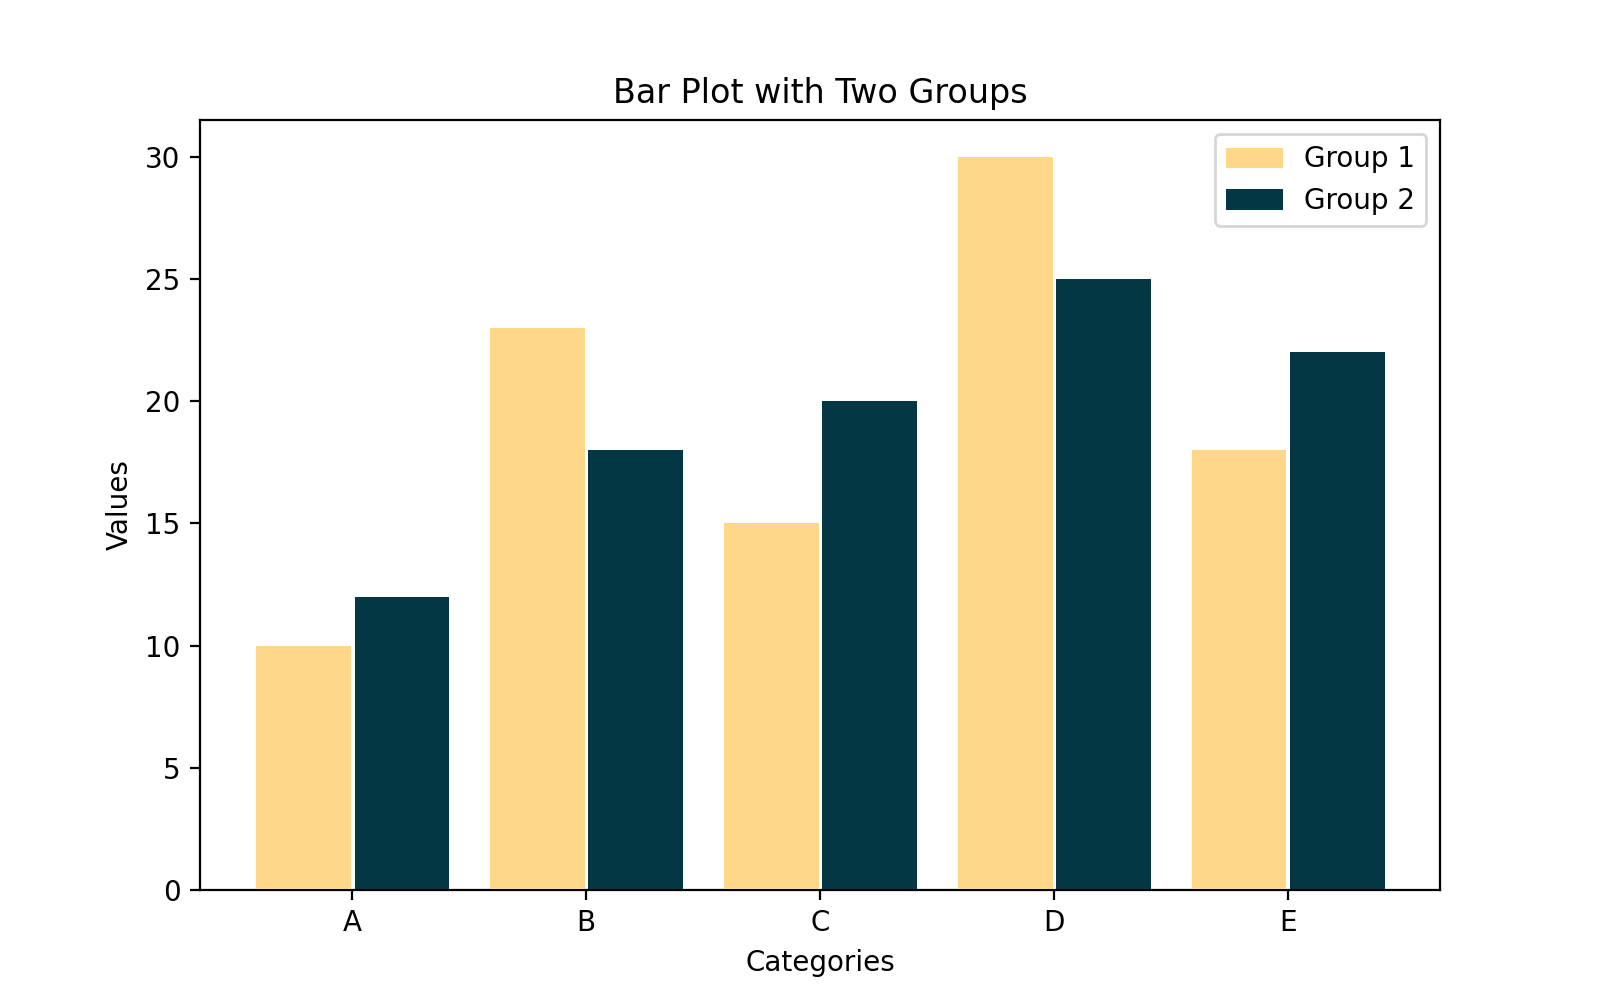
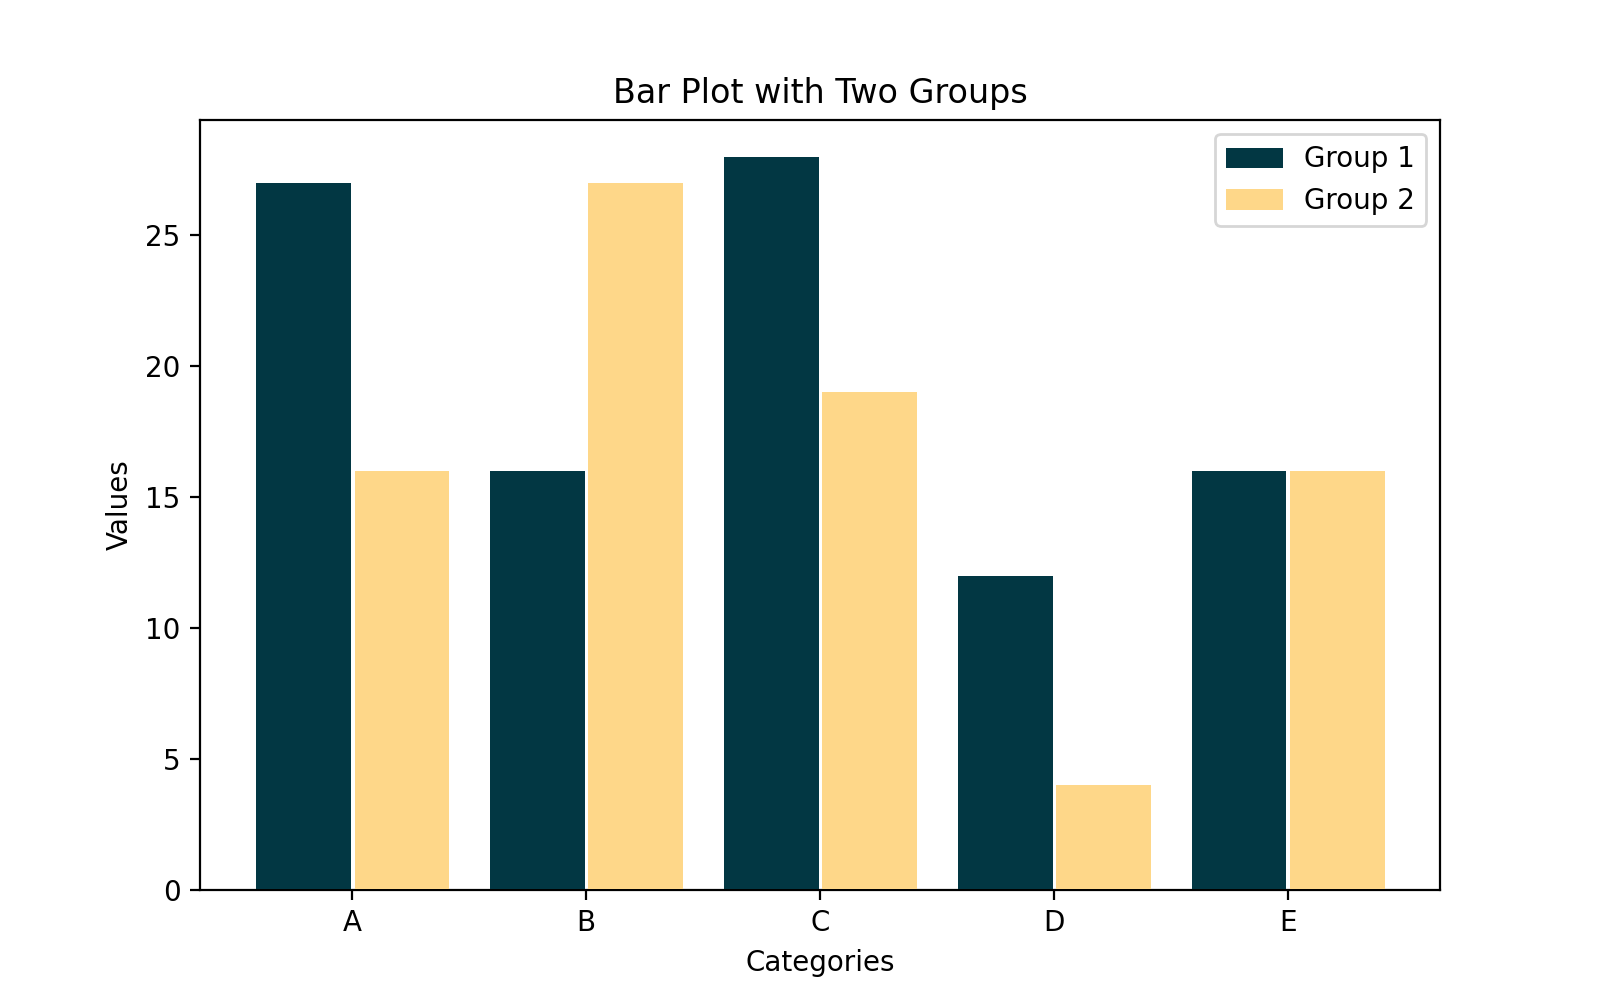
update legend determination

diff --git a/Prototype/backend/Algorithm/addPattern.py b/Prototype/backend/Algorithm/addPattern.py
@@ -168,12 +168,12 @@ def add_hatches_to_bars(input_path, output_folder, hatch_alpha=0.3, change_color
     
     # Find bar contours
     bar_contours, _ = cv2.findContours(cleaned, cv2.RETR_EXTERNAL, cv2.CHAIN_APPROX_SIMPLE)
-    # DRAW ALL contours
-    cv2.drawContours(plot_area, bar_contours, -1, (0, 255, 0), 2)
-    cv2.imshow('All Contours', cv2.cvtColor(plot_area, cv2.COLOR_RGB2BGR))
-    cv2.imwrite('contours.png', cv2.cvtColor(plot_area, cv2.COLOR_RGB2BGR))
-    cv2.waitKey(0)
-    cv2.destroyAllWindows()
+    # # DRAW ALL contours
+    # cv2.drawContours(plot_area, bar_contours, -1, (0, 255, 0), 2)
+    # cv2.imshow('All Contours', cv2.cvtColor(plot_area, cv2.COLOR_RGB2BGR))
+    # cv2.imwrite('contours.png', cv2.cvtColor(plot_area, cv2.COLOR_RGB2BGR))
+    # cv2.waitKey(0)
+    # cv2.destroyAllWindows()
 
     # Filter and collect bars with coordinates in the original image space
     bars = []
@@ -187,10 +187,6 @@ def add_hatches_to_bars(input_path, output_folder, hatch_alpha=0.3, change_color
         xb += x
         yb += y
         aspect_ratio = wb / float(hb)
-        if aspect_ratio > 1.5:  # most likely a legend
-            legends.append((xb, yb, wb, hb))
-            print("legend: ", wb, hb)
-            continue
         # detect bars based on color variance
         roi = original[yb:yb+hb, xb:xb+wb]
         hsv_roi = cv2.cvtColor(roi, cv2.COLOR_RGB2HSV)
@@ -198,9 +194,14 @@ def add_hatches_to_bars(input_path, output_folder, hatch_alpha=0.3, change_color
         s_variance = np.var(hsv_roi[:, :, 1])
         v_variance = np.var(hsv_roi[:, :, 2])
         print(h_variance, s_variance, v_variance)
+
         if h_variance < 10 and s_variance < 10 and v_variance < 10:
             bars.append((xb, yb, wb, hb))
             bar_width = wb
+        else:
+            if aspect_ratio > 1.5:  # most likely a legend
+                legends.append((xb, yb, wb, hb))
+                continue
     print(legends)
     x_legend, y_legend, w_legend, h_legend = legends[0]
     print(w_legend, h_legend)

diff --git a/Prototype/backend/Algorithm/generateRef.py b/Prototype/backend/Algorithm/generateRef.py
@@ -50,8 +50,10 @@ def generateRefBarPlot():
 def generateRefBarPlot_2Groups():
     # Sample data
     categories = ['A', 'B', 'C', 'D', 'E']
-    values_group1 = [10, 23, 15, 30, 18]
-    values_group2 = [12, 18, 20, 25, 22]
+    # randomly generate numbers within a range
+    random_numbers = np.random.randint(1, 30, size=(5, 2))
+    values_group1 = random_numbers[:, 0]
+    values_group2 = random_numbers[:, 1]
 
     # Define the width of the bars
     bar_width = 0.4
